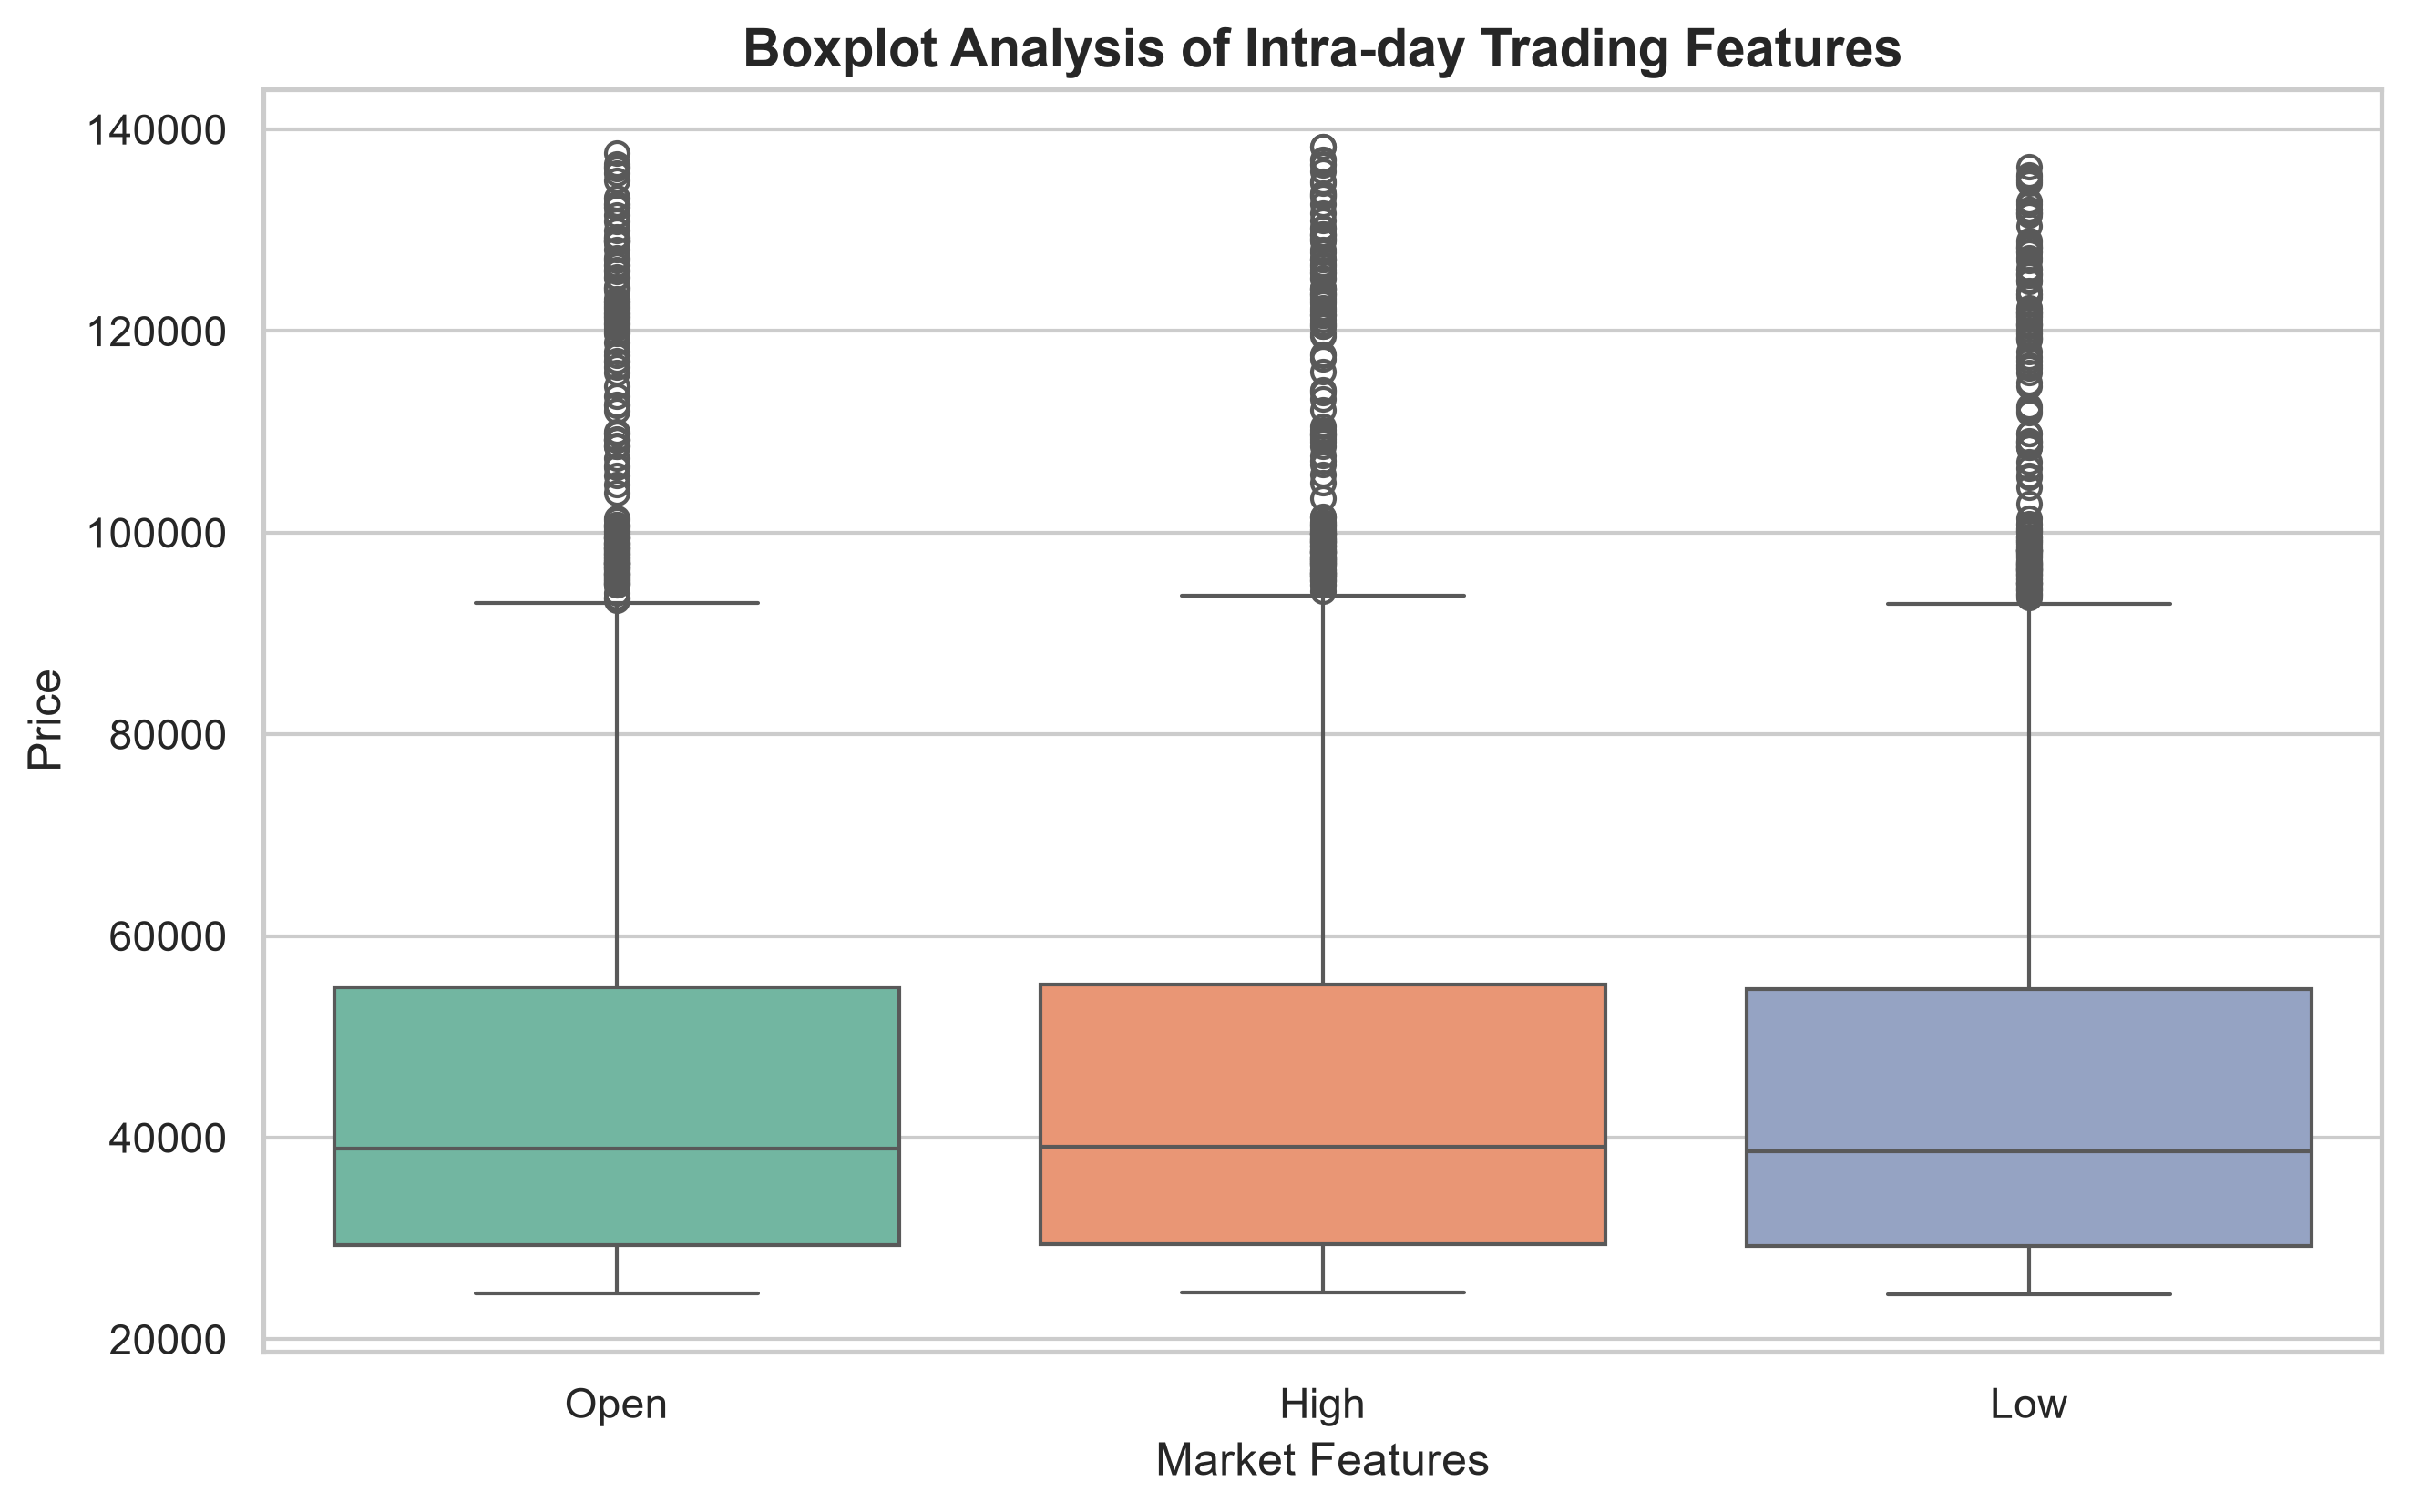
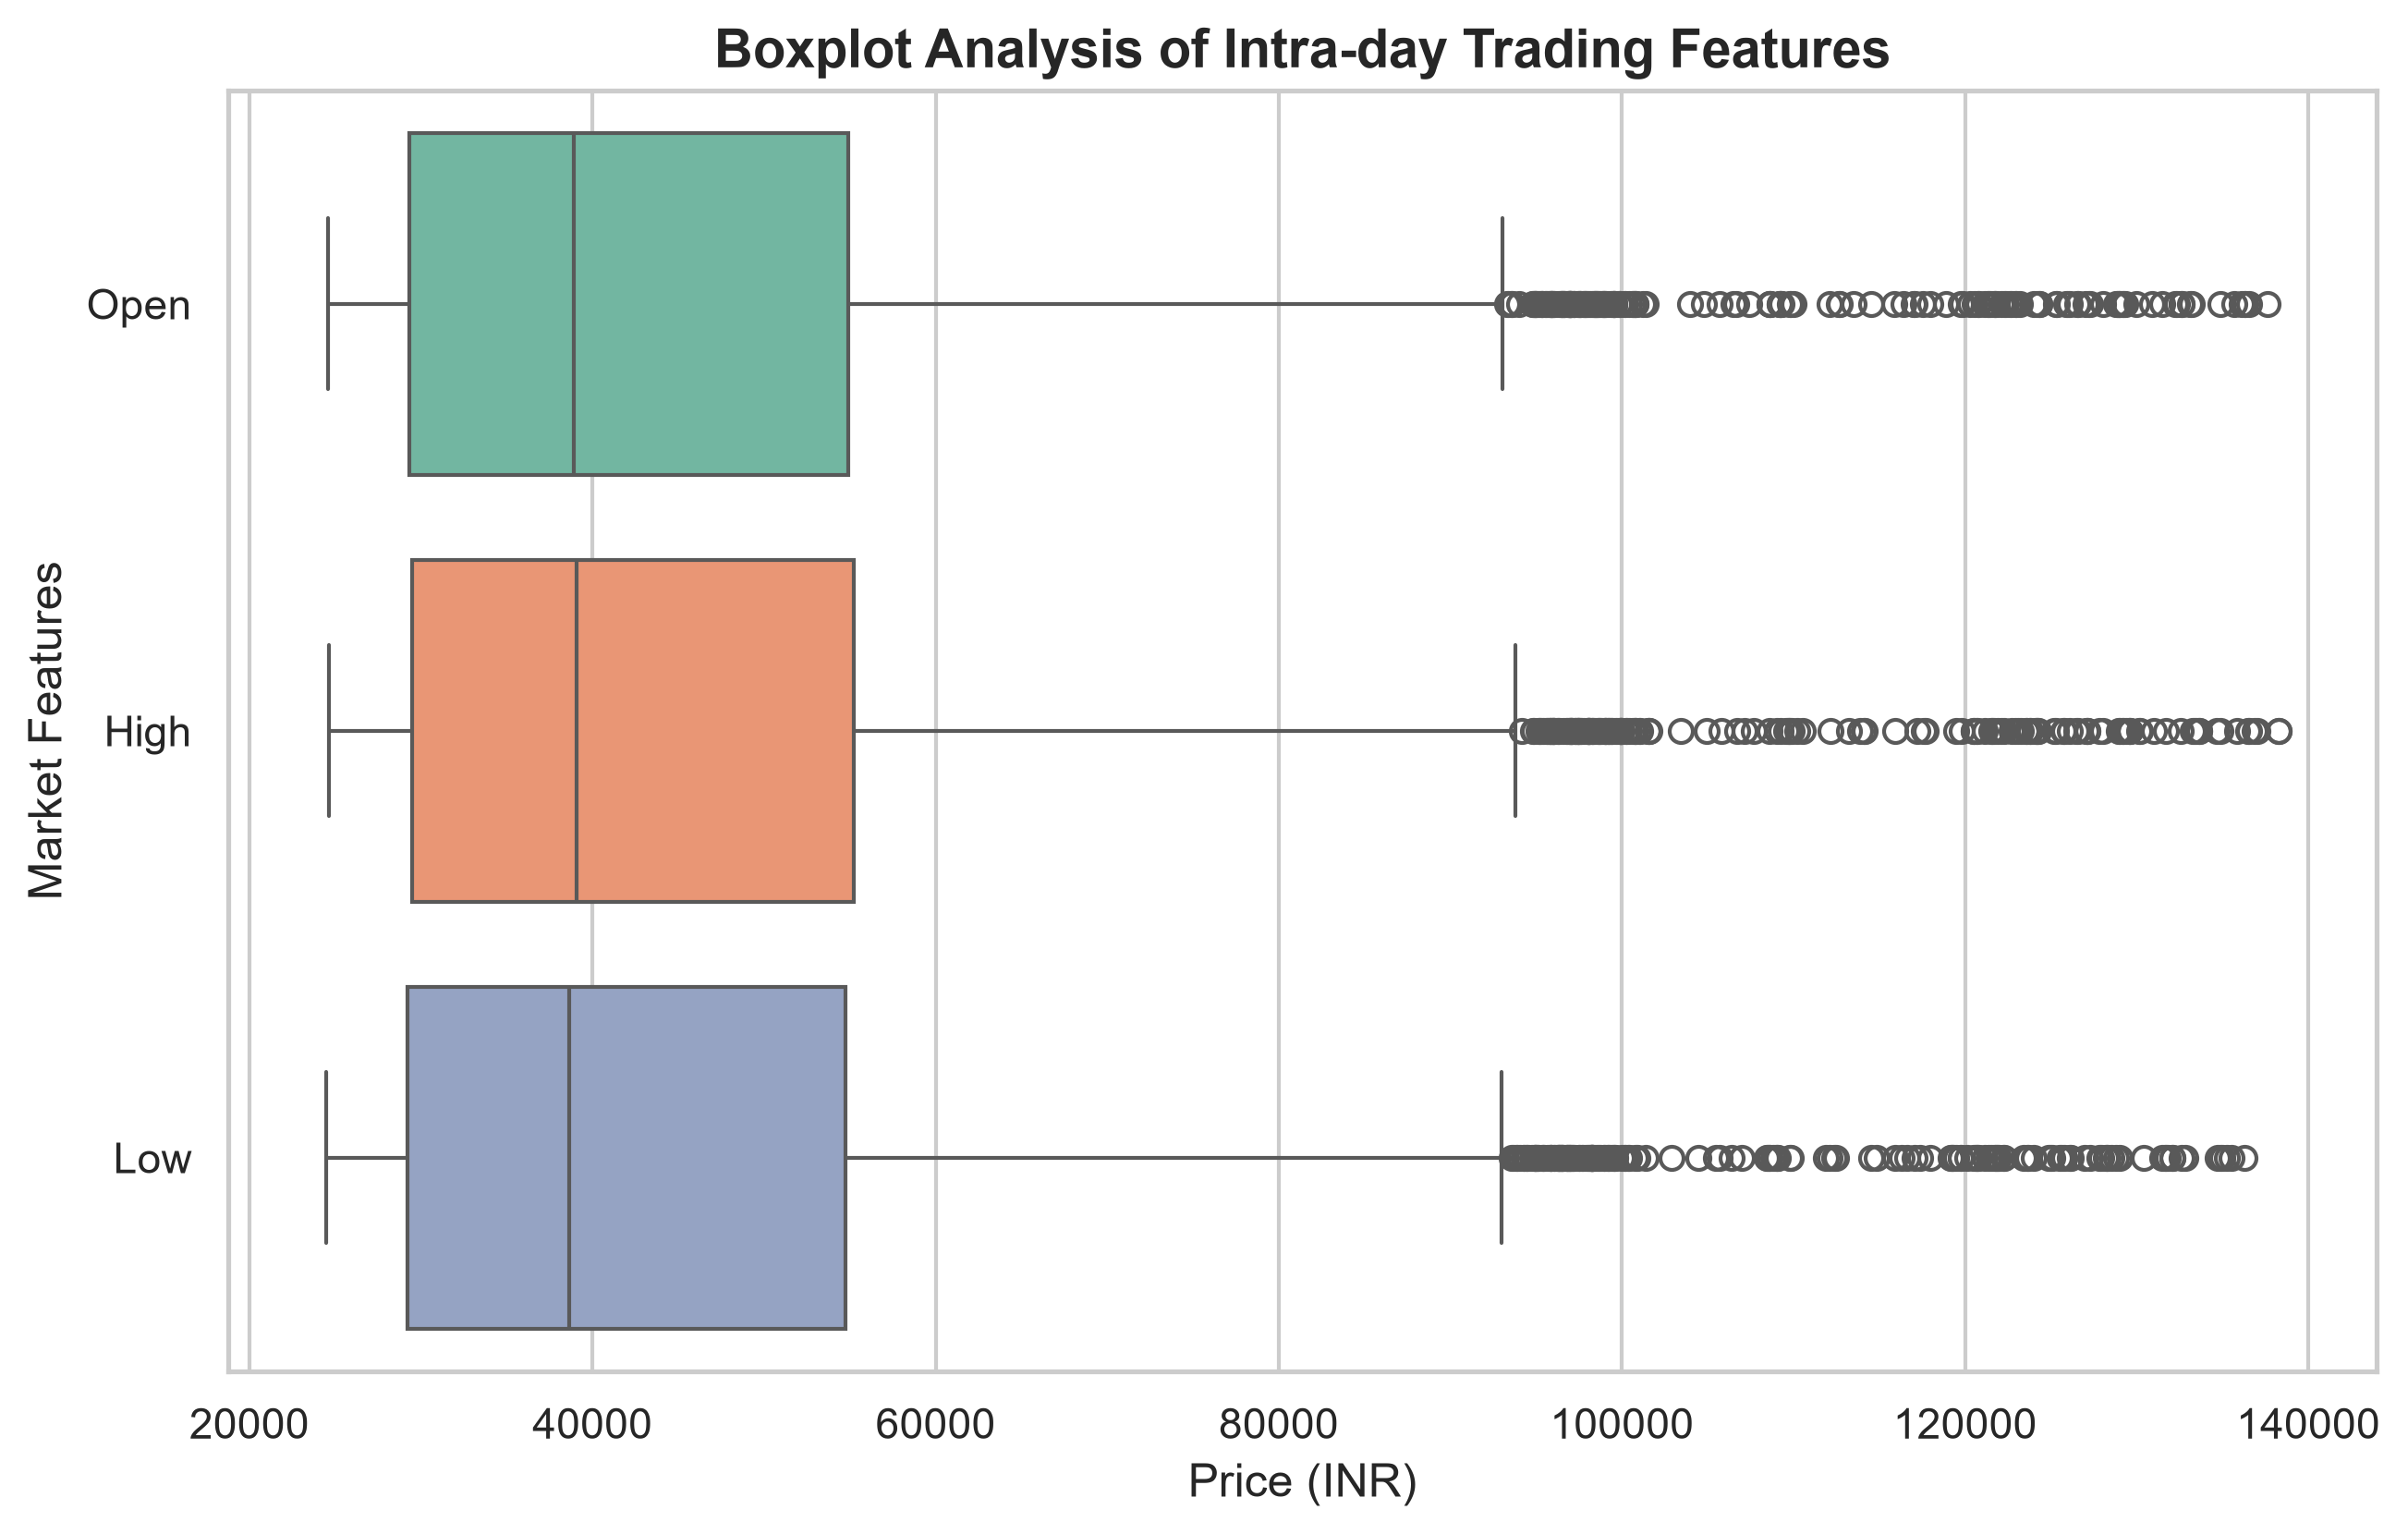
display 4 model

diff --git a/app.py b/app.py
@@ -5,9 +5,19 @@ import joblib
 # Set page layout to wide for a better dashboard look
 st.set_page_config(layout="wide", page_title="Gold Price Predictor")
 
-# Load the trained model and scaler
-model = joblib.load('gold_price_model.pkl')
-scaler = joblib.load('scaler.pkl')
+# 1. Load the trained models and scaler safely
[email redacted]_resource
+def load_ml_assets():
+    scaler = joblib.load('scaler.pkl')
+    models = {
+        "Linear Regression (Baseline)": joblib.load('model_lr.pkl'),
+        "Decision Tree": joblib.load('model_dt.pkl'),
+        "Random Forest": joblib.load('model_rf.pkl'),
+        "Gradient Boosting": joblib.load('model_gb.pkl')
+    }
+    return scaler, models
+
+scaler, models = load_ml_assets()
 
 # Cache the data loading so the app runs faster
 @st.cache_data
@@ -24,7 +34,13 @@ st.title("🥇 Daily Gold Price Prediction & Analytics Dashboard")
 st.write("This application predicts the daily closing price of gold based on intra-day trading metrics and provides interactive historical market analysis.")
 
 # --- SIDEBAR: USER INPUTS ---
-st.sidebar.header("Input Market Features")
+st.sidebar.header("1. Select Machine Learning Model")
+# Let the user choose the model
+selected_model_name = st.sidebar.selectbox("Active Prediction Model:", list(models.keys()))
+active_model = models[selected_model_name]
+
+st.sidebar.markdown("---")
+st.sidebar.header("2. Input Market Features")
 
 def user_input_features():
     Open_price = st.sidebar.number_input('Open Price', min_value=20000.0, max_value=150000.0, value=136143.0)
@@ -47,25 +63,37 @@ col1, col2 = st.columns([1, 2])
 
 # LEFT COLUMN: Prediction Engine
 with col1:
-    st.subheader('🔮 Price Prediction')
+    st.subheader(f'🔮 Price Prediction ({selected_model_name})')
     st.write("Current Input Parameters:")
     
     # Format the dataframe display
     st.dataframe(input_df, use_container_width=True)
     
-    if st.button('Predict Closing Price', type="primary"):
-        scaled_input = scaler.transform(input_df)
-        prediction = model.predict(scaled_input)
-        
-        # Display Prediction with Currency formatting
-        st.success(f"### Estimated Close Price: ₹{prediction[0]:,.2f} (INR)")
+    # PREDICTION LOGIC
+    scaled_input = scaler.transform(input_df)
+    main_prediction = active_model.predict(scaled_input)[0]
+    
+    st.success(f"### Estimated Close Price: ₹{main_prediction:,.2f} (INR)")
         
     st.markdown("---")
-    st.subheader('📊 Market Extremes (All-Time)')
     
-    # Display Metrics with Currency formatting
-    st.metric(label="Historical Max Price (INR)", value=f"₹{df['Price'].max():,.0f}")
-    st.metric(label="Historical Min Price (INR)", value=f"₹{df['Price'].min():,.0f}")
+    # --- MODEL COMPARISON FEATURE (TABLE ONLY) ---
+    st.subheader("⚖️ Model Comparison")
+    compare_toggle = st.toggle("Compare all 4 algorithms")
+    
+    if compare_toggle:
+        # Calculate predictions for all models
+        comparison_data = {}
+        for name, mod in models.items():
+            comparison_data[name] = mod.predict(scaled_input)[0]
+            
+        # Create a dataframe for the table
+        comp_df = pd.DataFrame(list(comparison_data.items()), columns=['Model', 'Predicted Price (INR)'])
+        comp_df.set_index('Model', inplace=True)
+        
+        # Display ONLY the beautifully formatted raw numbers
+        st.dataframe(comp_df.style.format("₹{:,.2f}"), use_container_width=True)
+
 # RIGHT COLUMN: Interactive Historical Chart
 with col2:
     st.subheader('📈 Interactive Historical Trend')
@@ -75,27 +103,20 @@ with col2:
     min_date = df['Date'].min().date()
     max_date = df['Date'].max().date()
     
-    # Initialize session state so the inputs and slider stay perfectly synced
     if 'start_input' not in st.session_state:
         st.session_state.start_input = pd.to_datetime('2014-01-01').date()
         st.session_state.end_input = max_date
         st.session_state.slider_dates = (pd.to_datetime('2014-01-01').date(), max_date)
 
-   # Callbacks to sync the fields and the drag bar together
     def sync_from_inputs():
         start = st.session_state.start_input
         end = st.session_state.end_input
         
-        # --- SAFETY CHECK ---
-        # If the user is currently deleting/typing and the field is empty, do nothing.
         if start is None or end is None:
             return
             
-        # --- VALIDATION LOGIC ---
         if start > end:
-            # Show a warning pop-up
             st.toast("⚠️ Error: Start Date cannot be after End Date. Dates automatically adjusted.", icon="❌")
-            # Automatically fix the error by setting End Date equal to Start Date
             st.session_state.end_input = start
             st.session_state.slider_dates = (start, start)
         else:
@@ -105,14 +126,12 @@ with col2:
         st.session_state.start_input = st.session_state.slider_dates[0]
         st.session_state.end_input = st.session_state.slider_dates[1]
         
-    # 1. Type-in Date Fields
     col2_a, col2_b = st.columns(2)
     with col2_a:
         st.date_input("Type Start Date:", key="start_input", min_value=min_date, max_value=max_date, on_change=sync_from_inputs)
     with col2_b:
         st.date_input("Type End Date:", key="end_input", min_value=min_date, max_value=max_date, on_change=sync_from_inputs)
 
-    # 2. Drag Bar (Slider)
     st.slider(
         "Or drag to select date range:",
         min_value=min_date,
@@ -122,11 +141,9 @@ with col2:
         on_change=sync_from_slider
     )
     
-    # Filter the dataframe based on the synced dates
     final_start = st.session_state.slider_dates[0]
     final_end = st.session_state.slider_dates[1]
     filtered_df = df[(df['Date'].dt.date >= final_start) & (df['Date'].dt.date <= final_end)]
     
-    # Plot the filtered data
     chart_data = filtered_df.set_index('Date')[['Price']]
     st.line_chart(chart_data)

diff --git a/eda_visuals.py b/eda_visuals.py
@@ -2,28 +2,42 @@ import pandas as pd
 import seaborn as sns
 import matplotlib.pyplot as plt
 
-# 1. Load the dataset
+# ==========================================
+# 1. LOAD AND PREPARE DATA
+# ==========================================
 print("Loading data...")
 df = pd.read_csv('Gold Price.csv')
 
-# Ensure Date is formatted correctly for the trend line
+# Format Date for time-series charts
 df['Date'] = pd.to_datetime(df['Date'])
+df = df.sort_values('Date')
 
-# Set the visual style 
+# Create Market Trend category for the 2-Color Pairplot
+df['Market Trend'] = df['Chg%'].apply(lambda x: 'Up' if x > 0 else 'Down')
+
+# Set professional visual style 
 sns.set_theme(style="whitegrid")
 
 # ==========================================
-# VISUAL 1: Gold Price Trend (Line Chart)
+# VISUAL 1: Comprehensive Trend (2x3 Grid)
 # ==========================================
-print("Generating Gold Price Trend...")
-plt.figure(figsize=(12, 6))
-# Sorting data chronologically is important for line charts
-df_sorted = df.sort_values('Date')
-sns.lineplot(data=df_sorted, x='Date', y='Price', color='darkgoldenrod')
-plt.title('Daily Closing Price of Gold (2014 - 2026)', fontsize=14, fontweight='bold')
-plt.ylabel('Price', fontsize=12)
-plt.xlabel('Date', fontsize=12)
-plt.savefig('gold_price_trend.png', dpi=300, bbox_inches='tight')
+print("Generating 2x3 Comprehensive Trend Chart...")
+fig, axes = plt.subplots(nrows=3, ncols=2, figsize=(15, 12), sharex=True)
+fig.suptitle('Comprehensive Gold Market Trends Over Time (2014-2026)', fontsize=18, fontweight='bold', y=0.96)
+
+axes = axes.flatten()
+features = ['Price', 'Open', 'High', 'Low', 'Volume', 'Chg%']
+colors = ['darkgoldenrod', 'teal', 'green', 'crimson', 'purple', 'gray']
+
+for i, (feature, color) in enumerate(zip(features, colors)):
+    sns.lineplot(data=df, x='Date', y=feature, ax=axes[i], color=color, linewidth=1.5)
+    axes[i].set_ylabel(feature, fontsize=12, fontweight='bold')
+    axes[i].set_xlabel("") 
+
+axes[4].set_xlabel("Year", fontsize=14, fontweight='bold')
+axes[5].set_xlabel("Year", fontsize=14, fontweight='bold')
+plt.tight_layout(rect=[0, 0, 1, 0.94])
+plt.savefig('comprehensive_market_trend_2x3.png', dpi=300, bbox_inches='tight')
 plt.close()
 
 # ==========================================
@@ -31,38 +45,38 @@ plt.close()
 # ==========================================
 print("Generating Correlation Heatmap...")
 plt.figure(figsize=(8, 6))
-# Select only the numerical columns to correlate
 numerical_df = df[['Price', 'Open', 'High', 'Low', 'Volume', 'Chg%']]
 correlation_matrix = numerical_df.corr()
-# Draw the heatmap with the correlation numbers annotated
 sns.heatmap(correlation_matrix, annot=True, cmap='coolwarm', fmt=".3f", linewidths=0.5)
 plt.title('Correlation Heatmap of Trading Metrics', fontsize=14, fontweight='bold')
 plt.savefig('correlation_heatmap.png', dpi=300, bbox_inches='tight')
 plt.close()
 
 # ==========================================
-# VISUAL 3: Boxplot for Feature Outliers
+# VISUAL 3: Horizontal Boxplot 
 # ==========================================
-print("Generating Boxplot...")
+print("Generating Horizontal Boxplot...")
 plt.figure(figsize=(10, 6))
-sns.boxplot(data=df[['Open', 'High', 'Low']], palette="Set2")
+sns.boxplot(data=df[['Open', 'High', 'Low']], orient='h', palette="Set2")
 plt.title('Boxplot Analysis of Intra-day Trading Features', fontsize=14, fontweight='bold')
-plt.ylabel('Price', fontsize=12)
-plt.xlabel('Market Features', fontsize=12)
+plt.xlabel('Price (INR)', fontsize=12) 
+plt.ylabel('Market Features', fontsize=12)
 plt.savefig('boxplot_features.png', dpi=300, bbox_inches='tight')
 plt.close()
 
 # ==========================================
-# VISUAL 4: Pairplot for Feature Relationships
+# VISUAL 4: 2-Color Pairplot 
 # ==========================================
-print("Generating Pairplot... (This might take a few seconds)")
+print("Generating 2-Color Pairplot... (This might take a minute)")
 pair_plot = sns.pairplot(
-    df[['Open', 'High', 'Low', 'Volume', 'Price']], 
+    df[['Open', 'High', 'Low', 'Volume', 'Price', 'Market Trend']], 
+    hue='Market Trend',
+    palette={'Up': 'seagreen', 'Down': 'indianred'},
     diag_kind='kde',
-    plot_kws={'alpha': 0.6, 'edgecolor': None}
+    plot_kws={'alpha': 0.5, 'edgecolor': None}
 )
-pair_plot.fig.suptitle('Pairplot of Gold Market Variables', y=1.02, fontsize=16, fontweight='bold')
-pair_plot.savefig('pairplot_analysis.png', dpi=300, bbox_inches='tight')
+pair_plot.fig.suptitle('Pairplot of Gold Market Variables by Daily Trend', y=1.02, fontsize=16, fontweight='bold')
+pair_plot.savefig('pairplot_analysis_2color.png', dpi=300, bbox_inches='tight')
 plt.close()
 
-print("✅ Success! All 4 visuals have been saved to your project folder.")
+print("✅ Success! All 4 master visuals have been saved to your project folder.")

diff --git a/model_training.py b/model_training.py
@@ -45,9 +45,12 @@ for name, model in models.items():
     results[name] = {'RMSE': rmse, 'R2': r2}
     print(f"{name} - RMSE: {rmse:.2f}, R2: {r2:.4f}")
 
-# 5. Save the best model and the scaler for deployment
-print("\nSaving the best model (Linear Regression) and Scaler for deployment...")
-best_model = models['Linear Regression']
-joblib.dump(best_model, 'gold_price_model.pkl')
+# 5. Save ALL models and the scaler for deployment
+print("\nSaving all 4 models and the Scaler for the advanced Streamlit comparison app...")
 joblib.dump(scaler, 'scaler.pkl')
-print("Model saved successfully as 'gold_price_model.pkl' and 'scaler.pkl'")
+joblib.dump(models['Linear Regression'], 'model_lr.pkl')
+joblib.dump(models['Decision Tree'], 'model_dt.pkl')
+joblib.dump(models['Random Forest'], 'model_rf.pkl')
+joblib.dump(models['Gradient Boosting'], 'model_gb.pkl')
+
+print("✅ Success! All models and the scaler have been saved as .pkl files.")